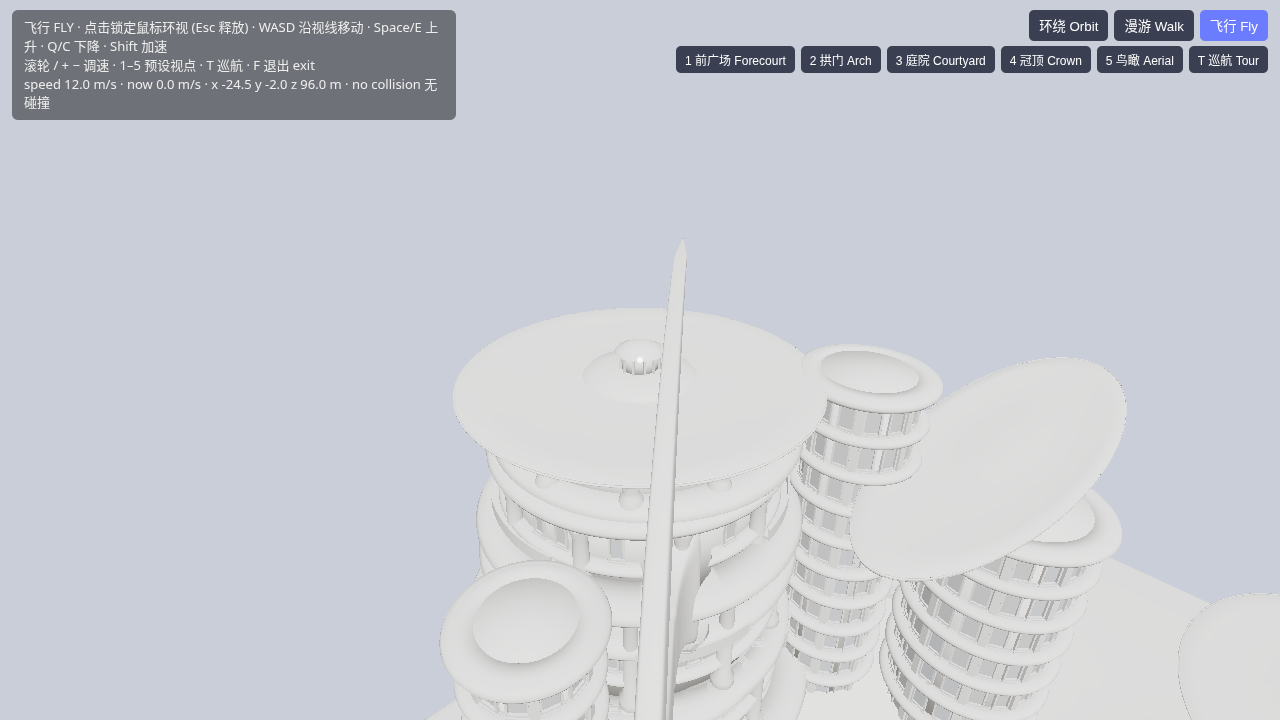
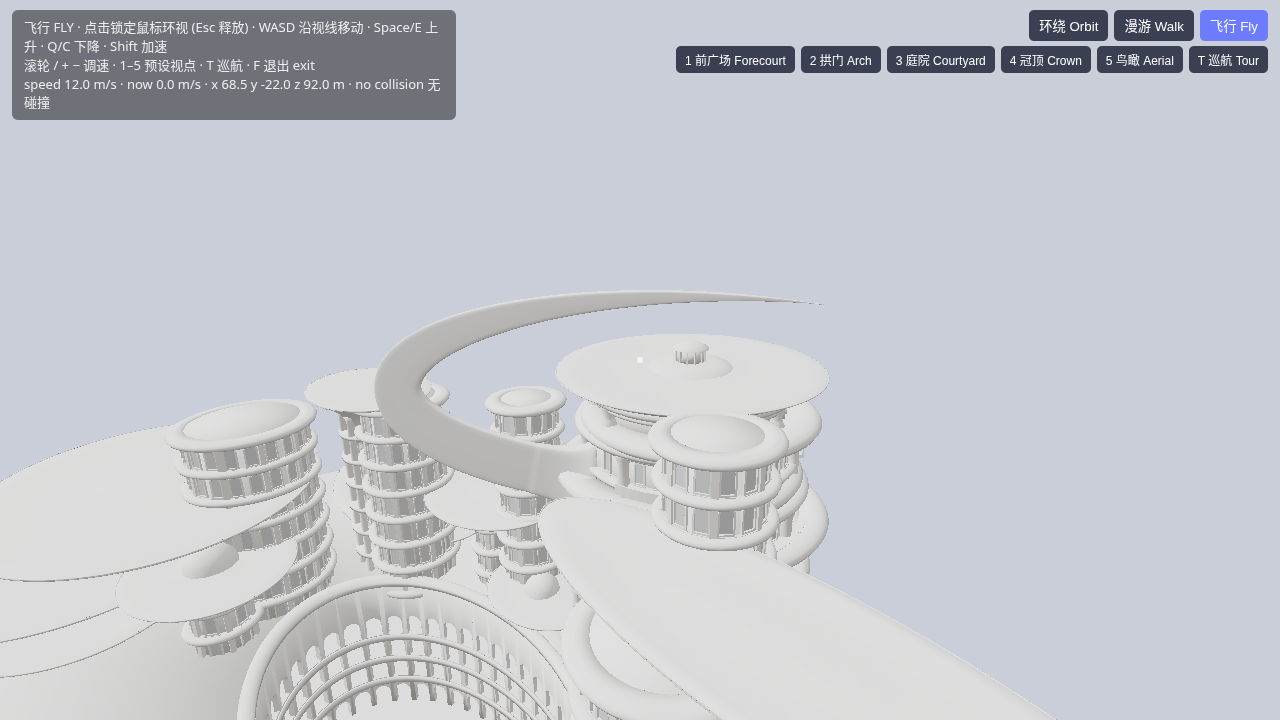
fly test: crown screenshot from the crown preset

diff --git a/walk/fly_test.py b/walk/fly_test.py
@@ -66,7 +66,7 @@ async def main():
         checks["climbed_over_crown"] = {"z": round(s["z"], 1), "crown_z": CROWN, "dist_to_tower_axis": round(math.hypot(s["x"] - TC[0], s["y"] - TC[1]), 1)}
         checks["climb_ok"] = s["z"] > CROWN + 15
         await shot("02_climbing_to_crown")
-        await pg.evaluate(f"{F}.lookFrom([{TC[0] - 38}, {TC[1] - 42}, 96], [{TC[0]}, {TC[1]}, 68])"); await shot("03_over_crown")
+        await pg.evaluate(f"{F}.preset(3)"); await shot("03_over_crown")
         # Q descends
         a = await st(); await hold(["q"], 1000); b = await st(); checks["Q_descends"] = b["z"] < a["z"] - 5
 
